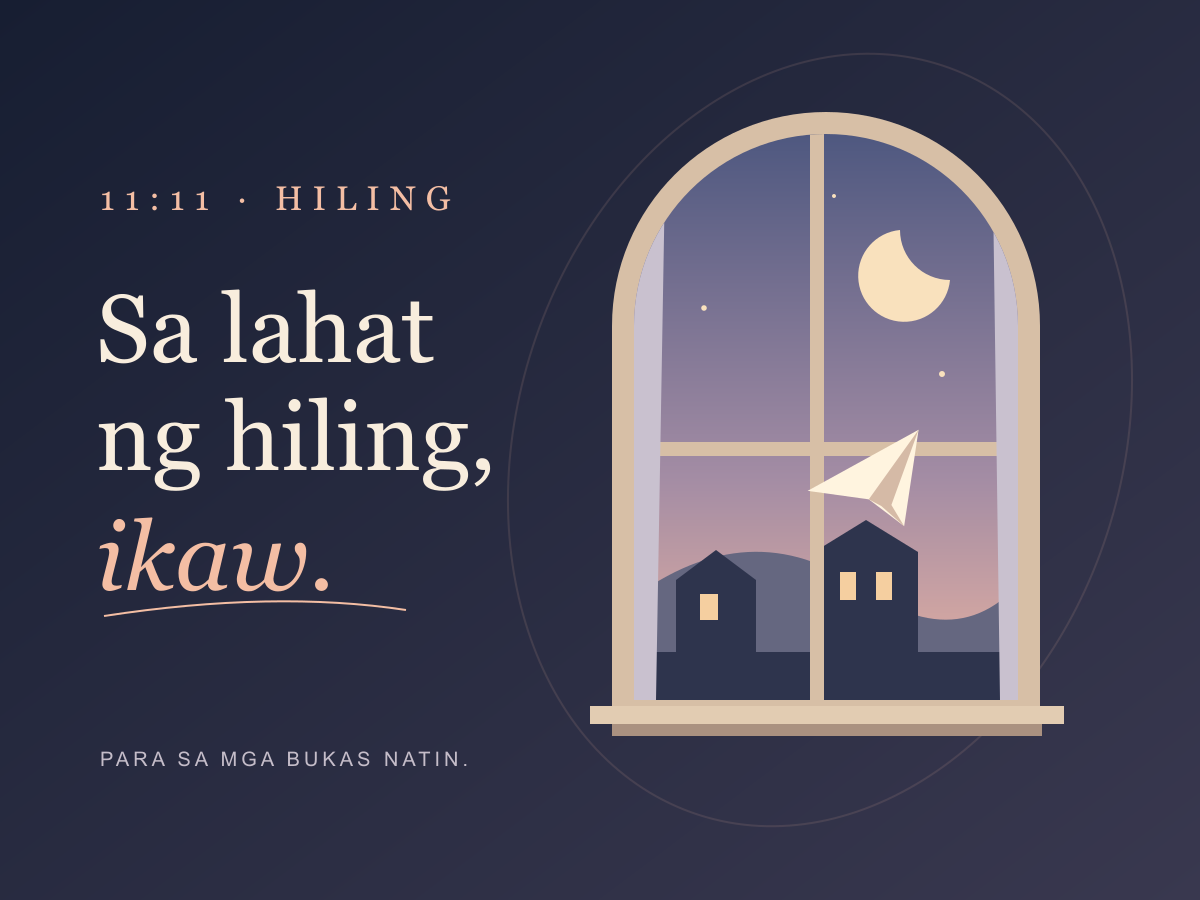
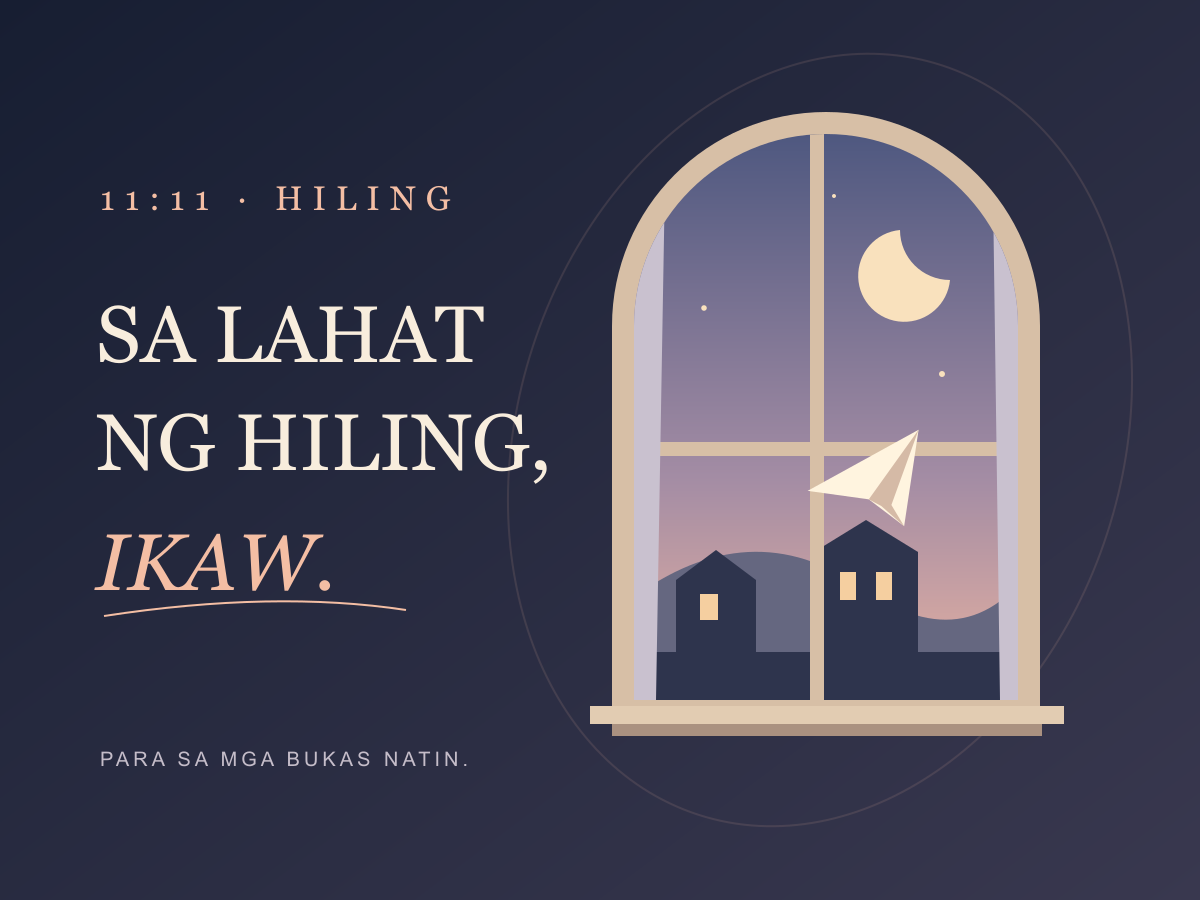
Display Hiling experience and share image in all caps

Changed region(s): [[0.0617, 0.4356, 0.4625, 0.56], [0.0617, 0.3111, 0.4008, 0.4044], [0.0925, 0.56, 0.2775, 0.6533]]

diff --git a/src/pages/HilingPage.css b/src/pages/HilingPage.css
@@ -1,6 +1,6 @@
-.hiling { --hl-ink: #f8eddd; --hl-muted: #c5bdc9; --hl-peach: #f4bea4; --hl-night: #171e32; min-height: 100svh; color: var(--hl-ink); background: radial-gradient(ellipse at 78% 42%, #343349 0, #20273d 35%, var(--hl-night) 76%); font-family: 'DM Sans', system-ui, sans-serif; text-transform: none; overflow: hidden; position: relative; isolation: isolate; }
+.hiling { --hl-ink: #f8eddd; --hl-muted: #c5bdc9; --hl-peach: #f4bea4; --hl-night: #171e32; min-height: 100svh; color: var(--hl-ink); background: radial-gradient(ellipse at 78% 42%, #343349 0, #20273d 35%, var(--hl-night) 76%); font-family: 'DM Sans', system-ui, sans-serif; text-transform: uppercase; overflow: hidden; position: relative; isolation: isolate; }
 .hiling *, .hiling *::before, .hiling *::after { box-sizing: border-box; }
-.hiling button, .hiling a, .hiling textarea { -webkit-tap-highlight-color: transparent; }
+.hiling button, .hiling a, .hiling textarea { -webkit-tap-highlight-color: transparent; text-transform: uppercase; }
 .hiling button { font: inherit; cursor: pointer; }
 .hiling button:disabled { opacity: .45; cursor: not-allowed; }
 .hiling :focus-visible { outline: 2px solid var(--hl-peach); outline-offset: 5px; }
@@ -17,7 +17,7 @@
 .hl-content { position: relative; z-index: 2; max-width: 490px; padding-left: 22px; }
 .hl-eyebrow { display: flex; align-items: center; gap: 13px; color: var(--hl-peach); font-size: 12px; line-height: 1.5; letter-spacing: .23em; margin: 0 0 26px; }
 .hl-eyebrow span { width: 29px; height: 1px; background: currentColor; }
-.hiling h1 { position: relative; width: fit-content; font: 400 clamp(74px, 7.9vw, 112px)/.94 'Instrument Serif', Georgia, serif; letter-spacing: -.035em; margin: 0 0 35px; }
+.hiling h1 { position: relative; width: fit-content; max-width: 100%; font: 400 clamp(62px, 6.2vw, 86px)/1 'Instrument Serif', Georgia, serif; letter-spacing: -.035em; margin: 0 0 35px; }
 .hiling h1 em { font-weight: 400; color: var(--hl-peach); }
 .hiling h1 > svg { position: absolute; width: 74%; height: 14px; left: 0; bottom: -14px; stroke: var(--hl-peach); fill: none; stroke-width: 1.2; opacity: .7; }
 .hl-intro > p { color: var(--hl-muted); font-size: 16px; line-height: 1.8; margin: 0; }
@@ -122,8 +122,8 @@
   .hl-main { grid-template-columns: 1fr; gap: 0; padding: 38px 0 23px; min-height: auto; }
   .hl-content { max-width: 490px; width: 100%; margin: auto; }
   .hl-eyebrow { font-size: 10px; margin-bottom: 20px; }
-  .hiling h1 { font-size: clamp(69px, 15vw, 100px); line-height: .94; margin-bottom: 29px; }
-  .hiling h1 br:first-of-type { display: none; }
+  .hiling h1 { font-size: clamp(52px, 13vw, 72px); line-height: 1; margin-bottom: 29px; }
+  .hiling h1 br:first-of-type { display: block; }
   .hl-intro > p { font-size: 16px; line-height: 1.8; } .hl-intro > p.hl-intro-whisper { font-size: 23px; margin-bottom: 22px; }
   .hl-visual { grid-row: 2; margin-top: 24px; }
   .hl-scene { max-width: 390px; height: 460px; }
@@ -145,6 +145,6 @@
   .hl-folded h2, .hl-sending h2 { font-size: 26px; }
   .is-flying .hl-flying-plane { animation-name: hl-flight-mobile; }
 }
-@media (max-width: 360px) { .hl-shell { padding: 0 20px; } .hiling h1 { font-size: 64px; } .hl-main:not(.hl-stage-closed) h1 { font-size: 48px; } .hl-scene { height: 410px; } .hl-window { left: 9%; right: 9%; } .hl-sill { left: 5%; right: 5%; } .hl-scene-note { right: 6%; font-size: 18px; } .hl-scene-caption { letter-spacing: .04em; font-size: 6px; } .hl-footer ol { gap: 15px; } .hl-footer li { font-size: 10px; } .hl-clock { right: 12%; } }
+@media (max-width: 360px) { .hl-shell { padding: 0 20px; } .hiling h1 { font-size: 50px; } .hl-main:not(.hl-stage-closed) h1 { font-size: 44px; } .hl-scene { height: 410px; } .hl-window { left: 9%; right: 9%; } .hl-sill { left: 5%; right: 5%; } .hl-scene-note { right: 6%; font-size: 18px; } .hl-scene-caption { letter-spacing: .04em; font-size: 6px; } .hl-footer ol { gap: 15px; } .hl-footer li { font-size: 10px; } .hl-clock { right: 12%; } }
 @keyframes hl-flight-mobile { 0% { opacity: 1; transform: translate(0,0) rotate(-12deg) scale(1); } 40% { opacity: 1; transform: translate(65px,-100px) rotate(-35deg) scale(.7); } 70% { opacity: 1; transform: translate(10px,-170px) rotate(-15deg) scale(.45); } 100% { opacity: 0; transform: translate(110px,-230px) rotate(-30deg) scale(.1); } }
 @media (prefers-reduced-motion: reduce) { .hiling *, .hiling *::before, .hiling *::after { animation: none !important; transition: none !important; scroll-behavior: auto !important; } .is-flying .hl-flying-plane { opacity: 0; } }

diff --git a/src/pages/HilingPage.test.jsx b/src/pages/HilingPage.test.jsx
@@ -18,7 +18,7 @@ function renderPage() {
 describe('11:11 Hiling', () => {
   it('opens at any hour, lets her choose, edit, fold and send a wish, then revisit it', async () => {
     const user = renderPage();
-    expect(document.title).toContain('11:11 · Hiling');
+    expect(document.title).toContain('11:11 · HILING');
     await user.click(screen.getByRole('button', { name: /Buksan ang bintana/ }));
     const input = screen.getByRole('textbox', { name: /O isulat/ });
     expect(input).toHaveFocus();

diff --git a/src/pages/HilingPage.jsx b/src/pages/HilingPage.jsx
@@ -68,7 +68,7 @@ export default function HilingPage() {
     const previous = document.title;
     const background = document.body.style.background;
     document.body.style.background = '#171e32';
-    document.title = '11:11 · Hiling — Sa lahat ng hiling, ikaw.';
+    document.title = '11:11 · HILING — SA LAHAT NG HILING, IKAW.';
     return () => { document.title = previous; document.body.style.background = background; };
   }, []);
 
